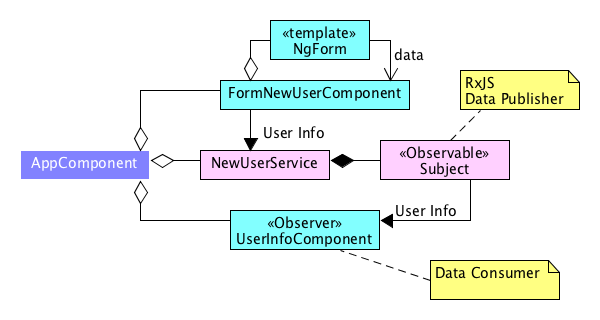
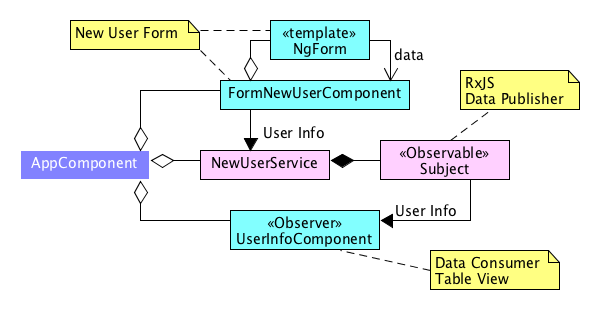
More contexnt add, Component View, Dependencies, Injector Graph as well as new images.

diff --git a/guide/form-new-user/form-new-user.md b/guide/form-new-user/form-new-user.md
@@ -3,28 +3,27 @@
 ![Image Empty Form](images/form-empty.png)
 ## Description
 
-The New User Form application exemplifies using a simple template based Form that uses a data service to hold the submitted value. the data service provides an Observable stream to monitor updates. A table component subscribes to the data service and displays the more recently submitted user info.
+The _New User Form_ application exemplifies using a simple Angular _Template_ based _Form_ that uses a data service to hold the submitted value. The data service provides an Observable stream to monitor updates. A table component subscribes to the data service and displays the most recently submitted user info.
 
-The New User Form application is composed of 3 components and 1 service:
+The _New User Form_ application is composed of 3 _components_ and 1 _service_.
 
 ## Components
 
-* AppComponent
-* FormNewUserComponent
-* UserInfoComponet
+1. AppComponent
+1. FormNewUserComponent
+1. UserInfoComponet
 
 ## Service
 
 * NewUserService
 
-
 ## Architecture
+
+The Angular application makes use of _RxJS_ to create a data stream to publish the _User info_. When the _Create_ button is clicked on, the user data is sent to the service using a API call. The service then publishes the data using the _RxJS Subject_.
 
 ![Image App UML](images/app-uml.png)
 
-The Angular app makes use of RxJS to create a continious data stream to publish the User info. When the _Create_ button is clicked on, the user data is send to the service using a API call. The service then publishes the data using the RxJS Subject.
-
-The HTML Form is provided by the `FormNewUserComponent` component, while the table display of the User info is presneted by the `UserInfoComponent`, it simplies subscribes to the Subject publishing the data,
+The HTML Form is provided by the `FormNewUserComponent` component. The table view of the user info is presented by the `UserInfoComponent`, it simply subscribes to the _Subject_ publishing the user info data.
 
 ## Opening Augury
 To use Augury, we need to open DevTools.
@@ -33,17 +32,68 @@ To use Augury, we need to open DevTools.
 Ctrl + Shift + I (Cmd + Opt + I on Mac)
 ```
 
-When DevTools is open, select the **Augury** tab, located on the far right. In DevTools, under the "Component Tree" tab, you will see the following parent and children tree relationship of Angular Component and the HTML DOM elements.
+When DevTools is opened, select the **Augury** tab, located on the far right. In DevTools, under the _Component Tree_ tab, you will see the following parent and children tree relationship for Angular components and the HTML DOM elements.
 
 ![Image Component Tree](images/component-tree.png)
 
-This is the default view setting, which is called the "Hybrid view". This view setting can be changed, from the settings [todo]: need ui name?.
+This is the default view setting, which is called the _Hybrid view_. This view setting can be changed from the settings [todo]: need ui name?.
 
 ![Image Component Tree View Settings](images/component-tree-view-setting.png)
 
 ## Component View
 
-Augury shows that the New User Form Angular application has 3 components. The root application component is called `AppComponent` which in turn contains
+Augury shows that the _New User Form_ Angular application has 3 components. The _Root_ component is called `AppComponent` which in turn contains 2 children components, `UserInfoComponent` and `FormNewUserComponent`.
+
+Select `AppComponent` from the _Component Tree_, on the right side in the _Properties_ tab, we see the single property `title` under State. Augury allow the value of `title` to be modified.
+
+![Image App Title Property](images/app-title.png)
+
+## Dependency
+Let's take a look at the `UserInfoComponent`, select it in Augury from the Component Tree. From the Properties tab, we see under state, the component has one _active_ property `newUserService` and the component has one dependency `NewUserService`.
+
+![Image User Info Component](images/user-info-component.png)
+
+Looking at the source code, the class for the component actually has 2 members (properties), `userInfo` and `newUserService`.
+
+```js
+export class UserInfoComponent {
+
+  userInfo;
+
+  constructor( private newUserService: NewUserService ) {
+    this.newUserService.getStream().subscribe(
+      data => this.userInfo = data
+    );
+  }
+
+}
+```
+
+Since `userInfo` by default is not assigned a value, it contains the value of `undefined`, which is a Javascript rule. As a result we don't see this (passive) property in Augury's Properties tab. Actually all properties not assigned a value will be removed by TypeScript during the compile stage. Likewise `newUserService` is an (active) property, it's assigned a value by the Injector using Angular's Dependency Injection (DI).
+
+Let's publish a hand crafted user info using Augury in debug mode. In the Properties tab, under State expand property `newUserService` as shown below so the _Emit_ button is visible.
+
+![Image User Info Emit](images/emit-user-info.png)
+
+When this data has been emitted, you will see the data displayed by the `UserInfoComponent` in a table view.
+
+![Image User Info Emit Table](images/emit-user-info-table.png)
+
+In the _Properties_ tab, the update State should now look like this.
+
+![Image Emitted User Info Properties](images/emitted-user-info-properties.png)
+
+Since the `surname` field in was let out from the emitted user info data, it shows up blank in the table view in the webpage. Likewise it's missing from the _State_ under the _Properties_ tab in Augury.
+
+## Injector Graph
+
+Besides looking at the source code to determine dependencies, Augury provide a visual way to see this through the _Injector Graph_ tab located next to the _Properties_ tab. If we open it, we'll see the following.
+
+![Image User Info Injector Graph](images/user-info-injector-graph.png)
+
+[todo] !!! This needs to be written once the new injector graph is in master !!!
+
+Along the top under _Component Hirearchy_ we see that the selected `UserInfoComponent` component is a child of `AppComponent`. Lower down under _Injector Graph_, we 
 
 ---
 ### The Augury Team!
